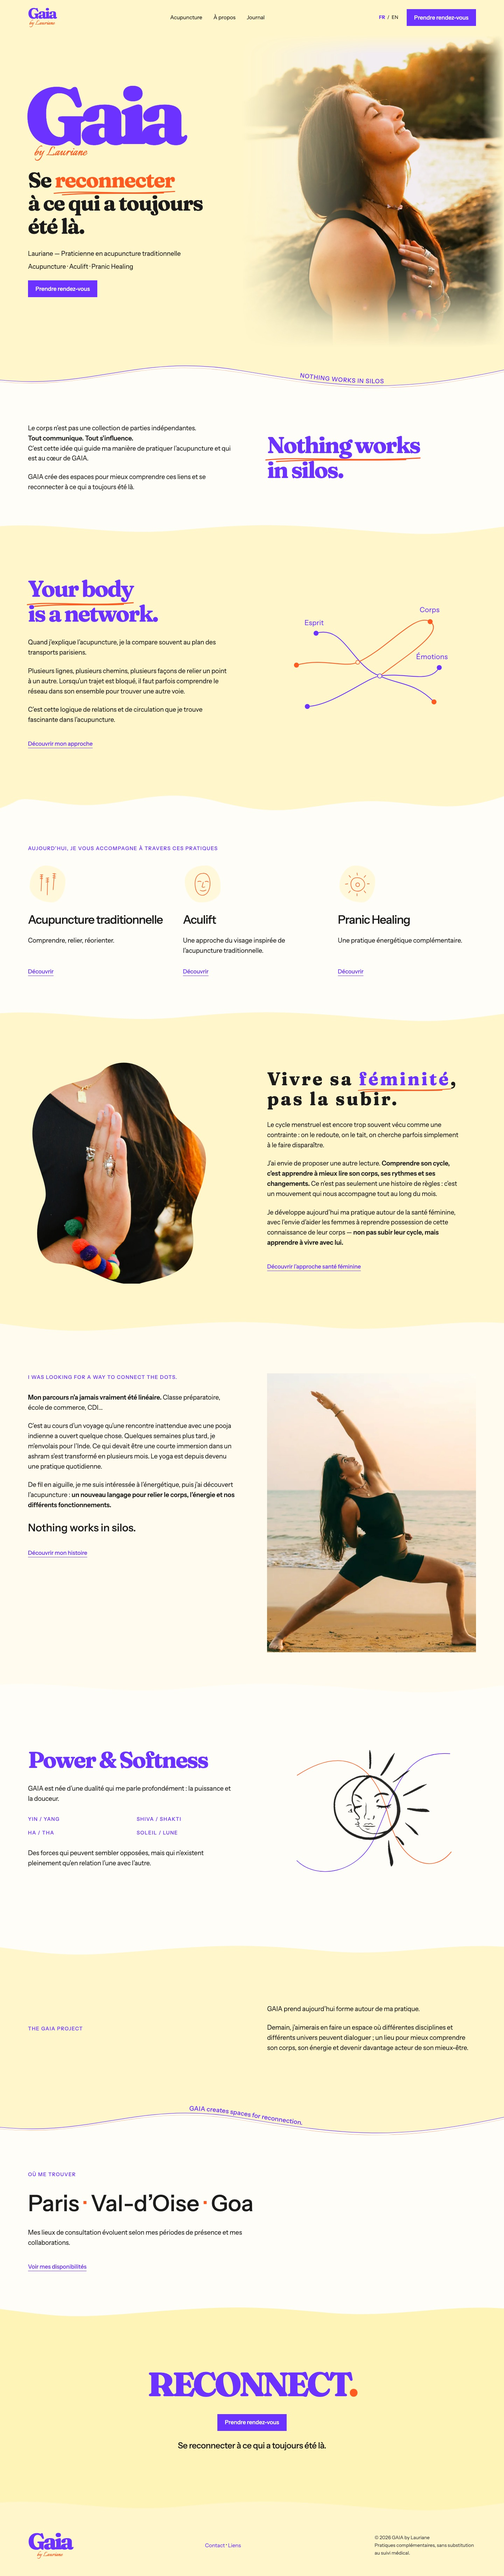
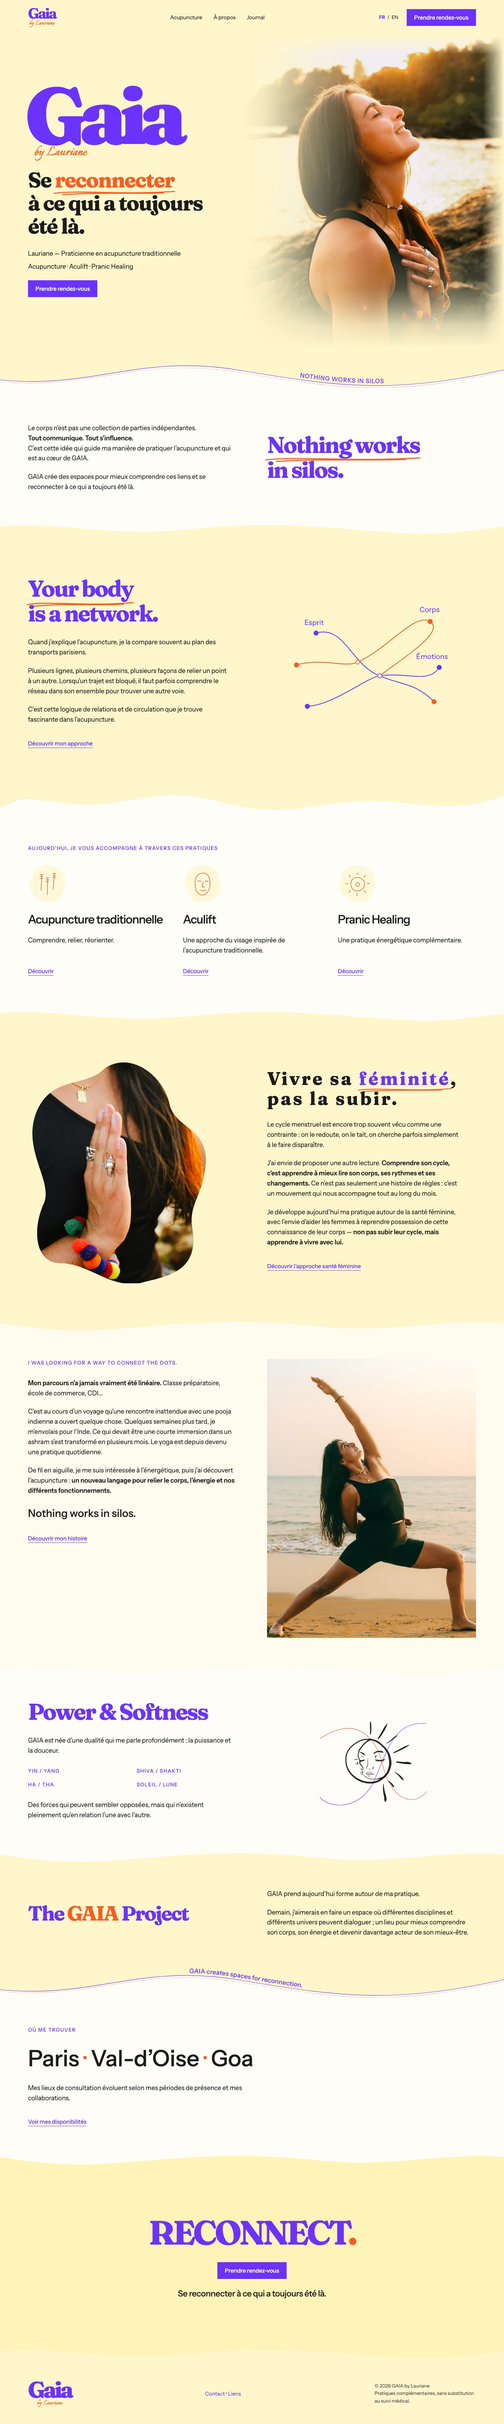
Update Site source

diff --git a/src/styles/home-system.css b/src/styles/home-system.css
@@ -129,3 +129,29 @@ body.gaia-home-shell{
 .gaia-home .power-pairs p{font-family:var(--sans);font-size:var(--home-label);font-weight:500;line-height:1.6;letter-spacing:.1em}
 @media(max-width:900px){.gaia-home .project-editorial-title{align-self:start}}
 @media(max-width:700px){.gaia-home .network-labels{font-size:26px}}
+
+/* Final density correction, limited to the lower four sections. */
+.gaia-home .about{--section-top:68px;--section-bottom:68px}
+.gaia-home .power{--section-top:56px;--section-bottom:56px}
+.gaia-home .project{--section-top:64px;--section-bottom:64px}
+.gaia-home .locations{--section-top:60px;--section-bottom:60px}
+.gaia-home .manifesto>.eyebrow,.gaia-home .network-title,.gaia-home .women-title,.gaia-home .power .eyebrow,.gaia-home .project-display-title,.gaia-home .final-cta h2{font-family:var(--display);font-weight:700;font-style:normal;font-variation-settings:'wght' 700,'SOFT' 70,'WONK' 1}
+.gaia-home .project-display-title{font-size:clamp(44px,4vw,58px);line-height:1.1;letter-spacing:-.05em;text-transform:none;color:var(--violet);white-space:nowrap;align-self:center;margin:0}
+.gaia-home .project-display-title span{color:var(--orange)}
+.gaia-home .power-dialogue{max-width:360px}
+@media(max-width:1100px){
+ .gaia-home .about{--section-top:64px;--section-bottom:64px}
+ .gaia-home .power{--section-top:48px;--section-bottom:48px}
+ .gaia-home .project{--section-top:56px;--section-bottom:56px}
+ .gaia-home .locations{--section-top:56px;--section-bottom:56px}
+ .gaia-home .project-display-title{font-size:clamp(36px,4vw,44px)}
+}
+@media(max-width:900px){.gaia-home .project-display-title{align-self:start;white-space:normal}}
+@media(max-width:700px){
+ .gaia-home .about{--section-top:48px;--section-bottom:48px}
+ .gaia-home .power{--section-top:40px;--section-bottom:40px}
+ .gaia-home .project{--section-top:48px;--section-bottom:48px}
+ .gaia-home .locations{--section-top:48px;--section-bottom:48px}
+ .gaia-home .project-display-title{font-size:var(--home-display)}
+ .gaia-home .power-dialogue{max-width:330px}
+}
